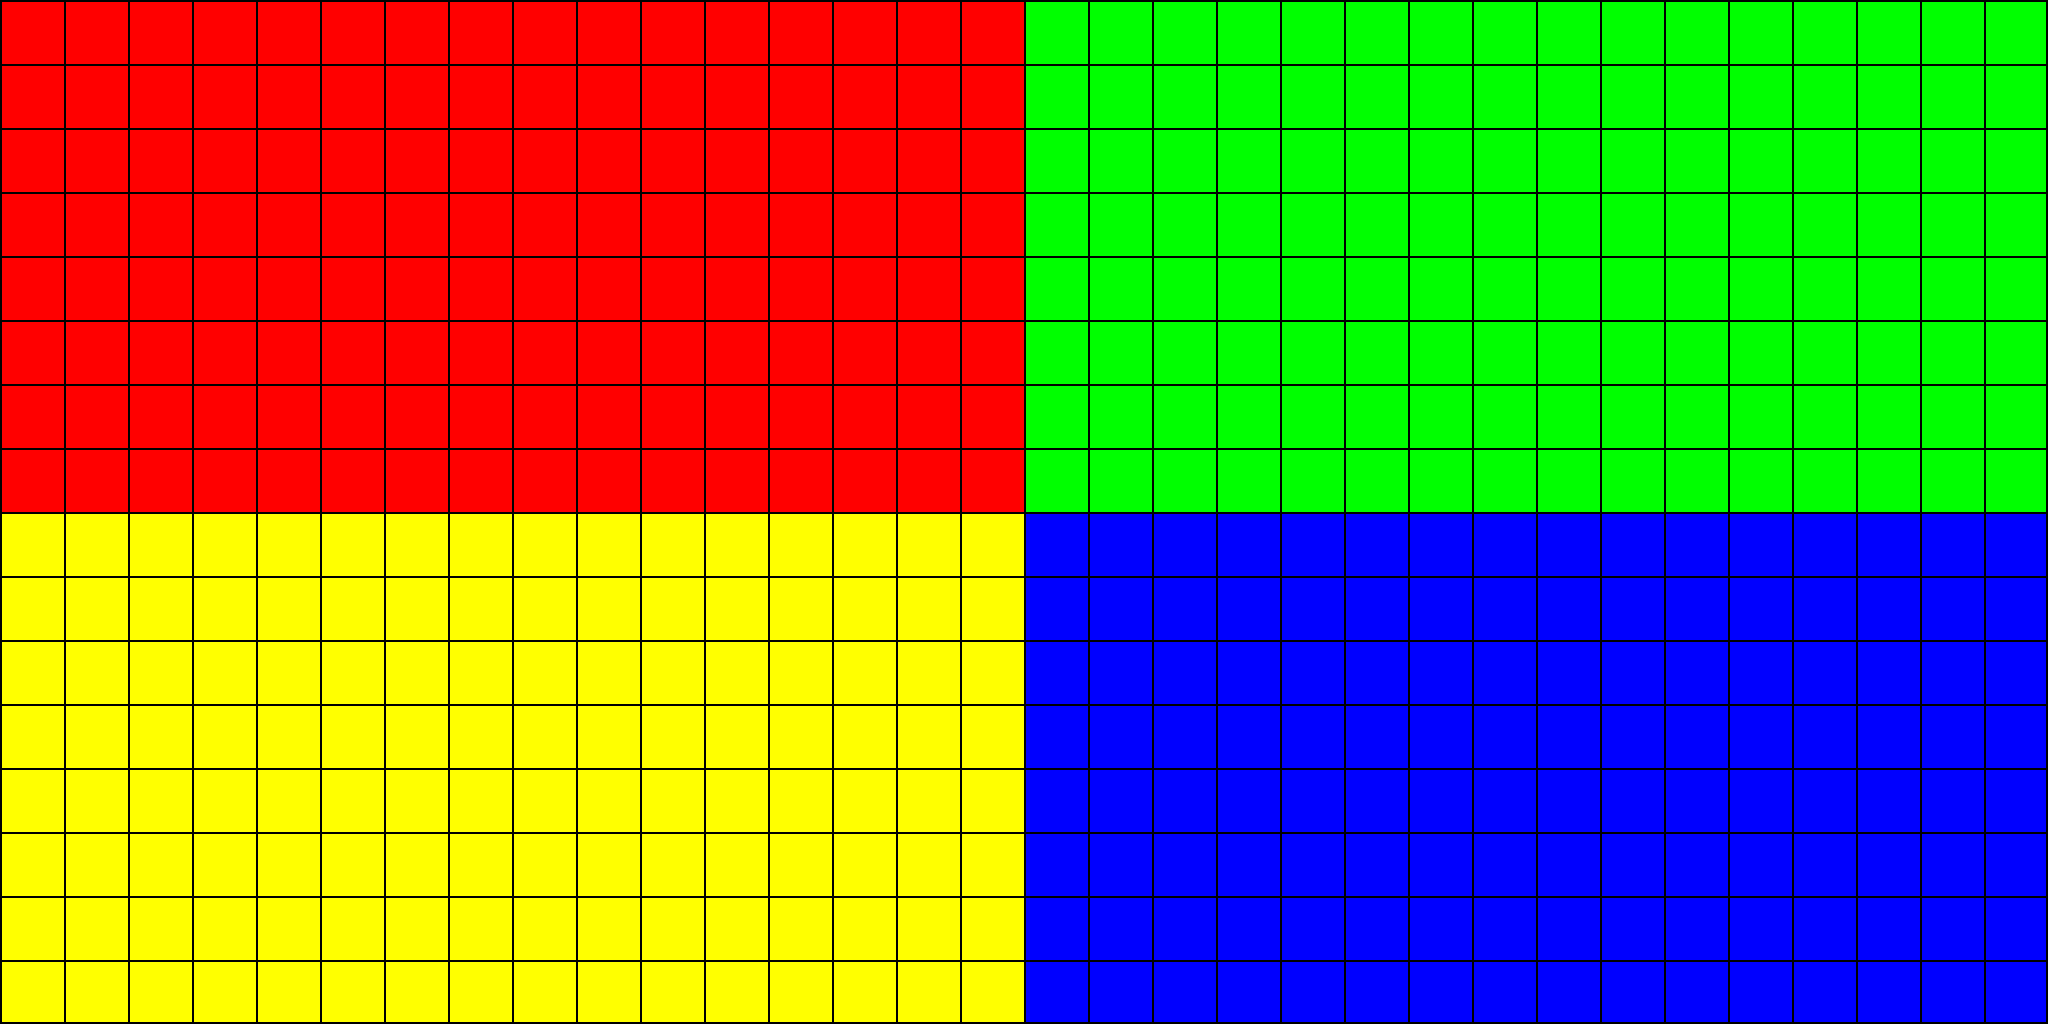
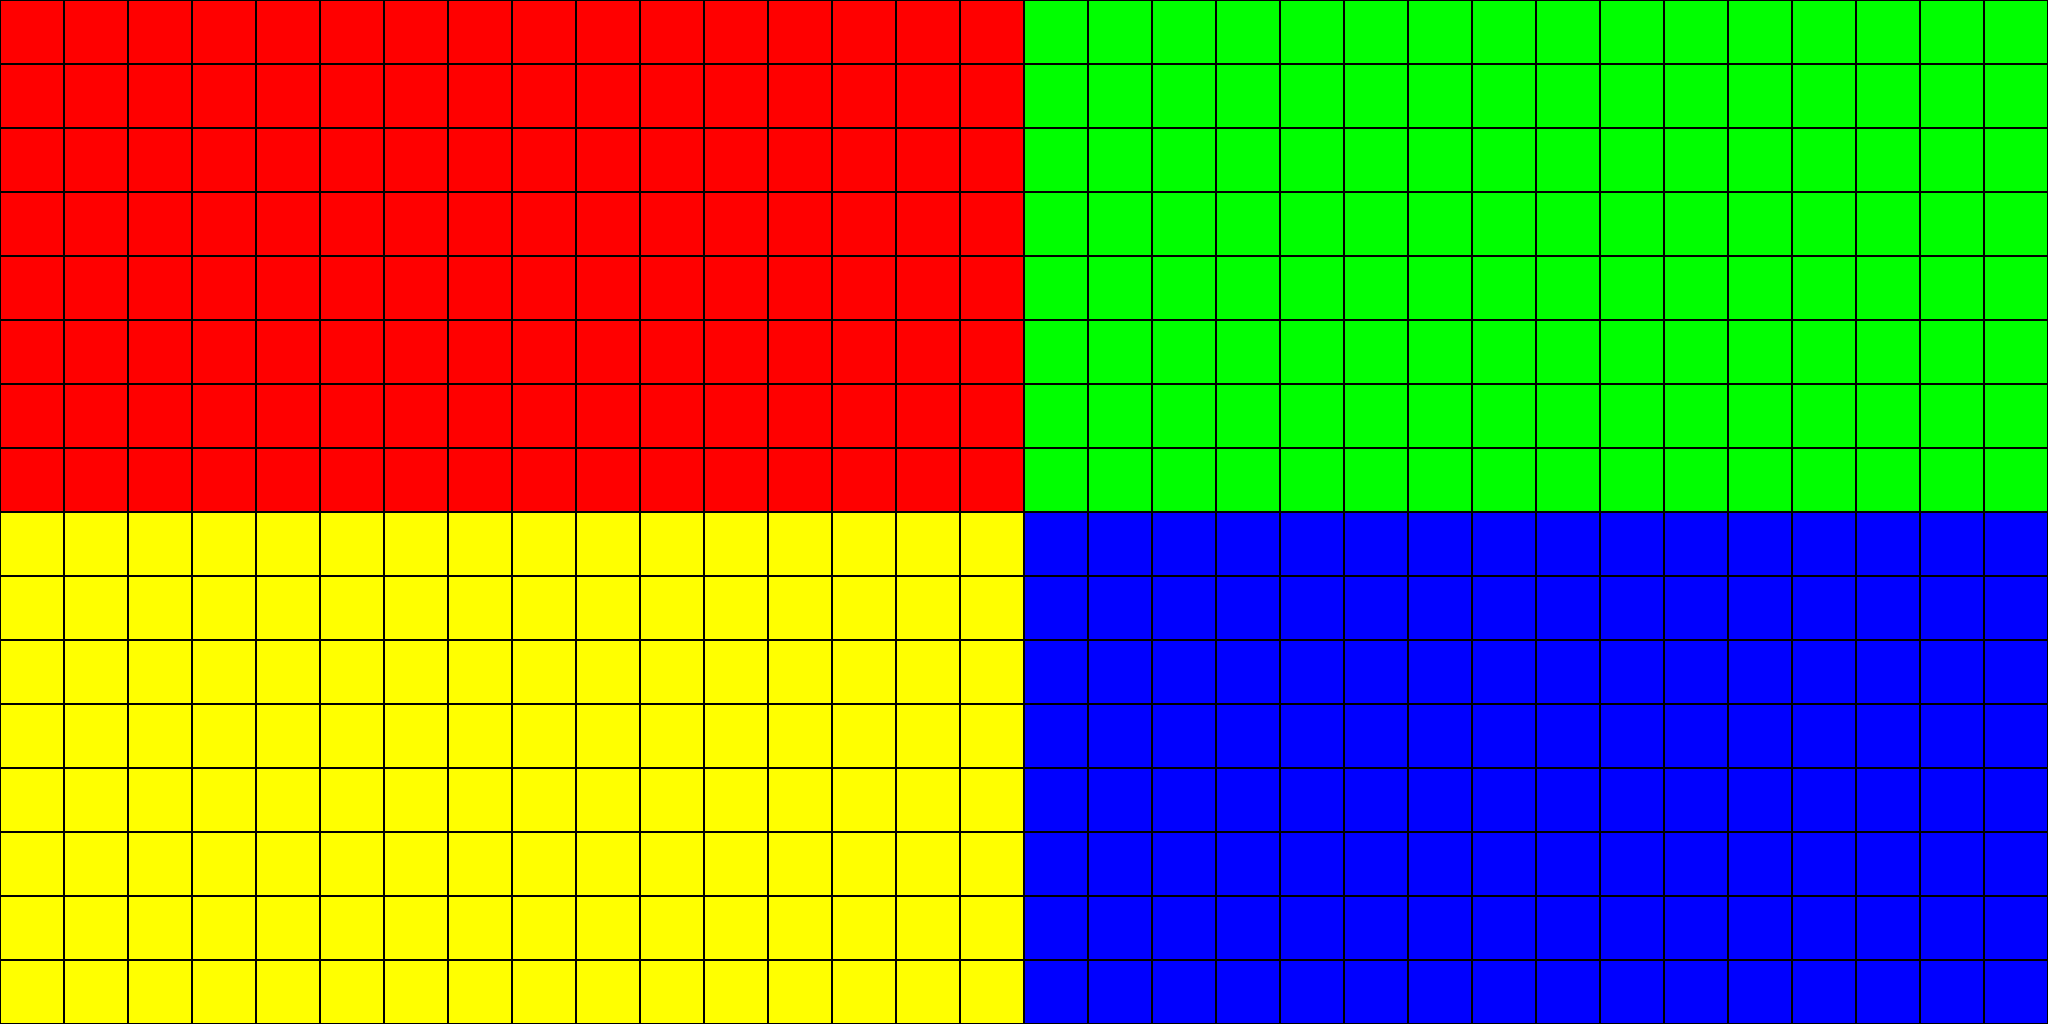
symetrie

diff --git a/Geodesics_around_BH/SphericalSymetry.py b/Geodesics_around_BH/SphericalSymetry.py
@@ -23,11 +23,13 @@ class Background:
 
     def get_angle_value(self, theta, phi):
         """Get angle value from the background image."""
-        return self.image.load()[self.image.size[0]-np.floor(phi / (2 * pi) * self.image.size[0])%self.image.size[0]-1, np.ceil(theta / pi * self.image.size[1])%self.image.size[1]]
+        return self.image.load()[
+            self.image.size[0] - np.floor(phi / (2 * pi) * self.image.size[0]) % self.image.size[0] - 1, np.ceil(
+                theta / pi * self.image.size[1]) % self.image.size[1]]
 
 
 class BlackHole:
-    def __init__(self, mass: float,accretionMin: float, accretionRange: float):
+    def __init__(self, mass: float, accretionMin: float, accretionRange: float):
         self._mass = mass
         self._accretionRange = accretionRange
         self._accretionMin = accretionMin
@@ -46,6 +48,7 @@ class BlackHole:
     def accretionMin(self):
         """Returns the radius of the accretion disk of the black hole."""
         return self._accretionMin
+
 
 class Camera:
     def __init__(self, r: float, theta: float, phi: float, distance: float, resolution: int, size: float):
@@ -97,13 +100,45 @@ class Ray:
         self._calculate_local_coordinates()
 
     def _calculate_local_coordinates(self):
-        """Calculate local coordinates once and store them as attributes."""                       #| 0.0025
-        self._localz = -self.camera.size * (self.pixely / self.camera.resolution - 1/2) - 1 / (2 * self.camera.resolution)#1p = 0.0025, 200p = 1
-        self._localy = self.camera.size * (self.pixelx / self.camera.resolution - 1/2) + 1 / (2 * self.camera.resolution)
+        """Calculate local coordinates once and store them as attributes."""
+        self._localz = -self.camera.size * (self.pixely / self.camera.resolution - 1 / 2) - 1 / (
+                    2 * self.camera.resolution)
+        self._localy = self.camera.size * (self.pixelx / self.camera.resolution - 1 / 2) + 1 / (
+                    2 * self.camera.resolution)
         self._localx = self.camera.distance
         self._localr = sqrt(self.localx ** 2 + self.localy ** 2 + self.localz ** 2)
         self._localtheta = np.arccos(self.localz / np.sqrt(self.localx ** 2 + self.localz ** 2))
         self._localphi = np.arctan(self.localy / self.localx) + pi
+        self._pt0, self._pr0, self._ptheta0, self._pphi0 = -1, -self.localx / (
+                1 - 2 * self.blackhole.mass / self.camera.r), -self.localz * self.camera.r / sqrt(
+            1 - 2 * self.blackhole.mass / self.camera.r), self.localy * self.camera.r * sin(self.camera.theta) / sqrt(
+            1 - 2 * self.blackhole.mass / self.camera.r)
+        self._b = self.ptheta0 ** 2 + self.pphi0 ** 2 / sin(self.camera.theta) ** 2
+
+    @property
+    def pt0(self):
+        """Returns the t momentum of the pixel"""
+        return self._pt0
+
+    @property
+    def pr0(self):
+        """Returns the r momentum of the pixel"""
+        return self._pr0
+
+    @property
+    def ptheta0(self):
+        """Returns the theta momentum of the pixel"""
+        return self._ptheta0
+
+    @property
+    def pphi0(self):
+        """Returns the phi momentum of the pixel"""
+        return self._pphi0
+
+    @property
+    def b(self):
+        """Returns the impact parameter of the pixel"""
+        return self._b
 
     @property
     def pixelx(self):
@@ -160,9 +195,6 @@ class Ray:
         """Returns the local phi angle"""
         return self._localphi
 
-    def _cart(self, r, theta, phi):
-        return r*cos(phi)*sin(theta), r*sin(phi)*sin(theta), r*cos(theta)
-
 
     def _dSdl(self, l, s, m):
         t, r, theta, phi, pt, pr, ptheta, pphi = s
@@ -177,35 +209,36 @@ class Ray:
                 cos(theta) / ((sin(theta) ** 3) * (r ** 2)) * pphi ** 2,
                 0]
 
-
     def _solver(self, t0, r0, theta0, phi0, pt0, pr0, ptheta0, pphi0, l_span, M):
         s_0 = (t0, r0, theta0, phi0, pt0, pr0, ptheta0, pphi0)
-        sol = solve(self._dSdl, l_span, s_0, method='DOP853', args=[M], events=_acretionDisk)
+        sol = solve(self._dSdl, l_span, s_0, method='DOP853', args=[M])
         return sol
 
     def get_color(self):
         """Returns the color of the pixel this ray passes through."""
-        pr0, ptheta0, pphi0 = -self.localx / (1 - 2 * self.blackhole.mass / self.camera.r), -self.localz * self.camera.r / sqrt(1 - 2 * self.blackhole.mass / self.camera.r), self.localy * self.camera.r * sin(self.camera.theta) / sqrt(1 - 2 * self.blackhole.mass / self.camera.r)
-        sol = self._solver(0, self.camera.r, self.camera.theta, self.camera.phi, -1, pr0, ptheta0, pphi0, (0, 200),self.blackhole.mass)
-        if len(sol.y_events[0]) > 0:
-            if sol.y_events[0][0][1] < self.blackhole.accretionRange:
-                if sol.y_events[0][0][1] > self.blackhole.accretionMin:
-                    return 255, 255, 255
-        if ptheta0**2 + pphi0**2/sin(self.camera.theta)**2  <= 27 * self.blackhole.mass**2:
+        sol = self._solver(0, self.camera.r, self.camera.theta, self.camera.phi, self.pt0, self.pr0, self.ptheta0, self.pphi0, (0, 200),
+                           self.blackhole.mass)
+        if self.b <= 27 * self.blackhole.mass ** 2:
             return 0, 0, 0
         return self.background.get_angle_value(sol.y[2][-1], (sol.y[3][-1]))
 
     def get_plot_data(self):
         """Returns data for plotting the ray path."""
         pr0, ptheta0, pphi0 = -self.localx / (
-                    1 - 2 * self.blackhole.mass / self.camera.r), -self.localz * self.camera.r / sqrt(
+                1 - 2 * self.blackhole.mass / self.camera.r), -self.localz * self.camera.r / sqrt(
             1 - 2 * self.blackhole.mass / self.camera.r), self.localy * self.camera.r * sin(self.camera.theta) / sqrt(
             1 - 2 * self.blackhole.mass / self.camera.r)
-        sol = self._solver(0, self.camera.r, self.camera.theta, self.camera.phi, -1, pr0, ptheta0, pphi0, (0, 200), self.blackhole.mass)
+        sol = self._solver(0, self.camera.r, self.camera.theta, self.camera.phi, -1, pr0, ptheta0, pphi0, (0, 200),
+                           self.blackhole.mass)
         return sol
 
-def _acretionDisk(t, y, M):
-    return y[2]%np.pi - np.pi/2
+def cart(sol):
+    t, r, theta, phi = sol[0], sol[1], sol[2], sol[3]
+    return np.array([t, r * cos(phi) * sin(theta), r * sin(phi) * sin(theta), r * cos(theta)])
+
+def spheri(sol):
+    t, x, y, z = sol[0], sol[1], sol[2], sol[3]
+    return np.array([t, sqrt(x ** 2 + y ** 2 + z ** 2), np.arccos(z / np.sqrt(x ** 2 + z ** 2)), np.arctan(y / x) + pi])
 
 def get_color_pixel(args):
     """Get color of the pixel using ray tracing."""
@@ -215,36 +248,68 @@ def get_color_pixel(args):
 
 
 def mainPicture():
-
+    absBegin = time()
+    resolution = 401
     black_hole = BlackHole(1, 4, 6)
-    camera = Camera(30, pi / 2 - 0.3, 0, 1, 401, 1)
+    camera = Camera(30, pi / 2, 0, 1, resolution, 1)
     result = Image.new('RGB', (camera.resolution, camera.resolution))
     pixels = result.load()
-    background = Background(Image.open("InterstellarWormhole_Fig10.jpg"))
-    rays = {}
+    background = Background(Image.open("colorgridCorrect.png"))
+
+
+
     begin = time()
-    for x in range(camera.resolution):
-        for y in range(camera.resolution):
-            rays[(x, y)] = Ray(x, y, camera, background, black_hole)
-    print("Creating rays: " + str(time() - begin))
+    rays = {}
+    for y in range(resolution):
+        for z in range(resolution):
+            rays[(y, z)] = Ray(y, z, camera, background, black_hole)
+    print("Creating rays done: " + str(time() - begin))
 
 
-    start = time()
-    pixel_values = []
-    with Pool(os.cpu_count()-1) as pool:
-        for pixel in pool.map(get_color_pixel, [(x, rays, camera.resolution) for x in range(camera.resolution**2)]):
-            pixel_values.append(pixel)
-            
-    pool.close()
-    '''for x in range(camera.resolution):
-        for y in range(camera.resolution):
-            pixel_values.append(rays[(x,y)].get_color())'''
-
-    for i in range(len(pixel_values)):
-        pixels[(i // camera.resolution, i % camera.resolution)]=pixel_values[i]
+    begin = time()
+    sols = {}
+    for x in range(int(np.ceil(resolution/2))):
+        sols[(x, x)] = np.array(rays[(x,x)].get_plot_data().y[:4])
+    print("Calculating diagonal done: " + str(time() - begin))
 
 
-    print("Calculating paths with "+ str(os.cpu_count()-1) + " cores: " + str(time() - start))
+    begin = time()
+    scaling = {}
+    for x in range(int(np.ceil(resolution/2))):
+        ray = rays[(x,x)]
+        sol = sols[(x,x)]
+        r0 = np.sign(ray.localy)*sqrt(ray.localz**2+ray.localy**2)
+        cars = cart(sol)
+        scaling[x] = (np.sign(cars[2])*sqrt(cars[3]**2+cars[2]**2))/r0
+    print("Calculating scaling factors done: " + str(time() - begin))
+
+    begin = time()
+    for y in range(resolution):
+        for z in range(resolution):
+            if y != z or y+z>resolution:
+                localx, localy, localz = rays[(y,z)].localx, rays[(y,z)].localy, rays[(y,z)].localz
+                x = np.floor(resolution/2) - np.round(np.sqrt(((y-np.floor(resolution/2))**2 + (z-np.floor(resolution/2))**2)/2))
+                t, r, theta, phi = sols[(x, x)][0], sols[(x, x)][1], sols[(x, x)][2], sols[(x, x)][3]
+                scaledlocaly, scaledlocalz, scaledlocalx = scaling[x] * localy, scaling[x] * localz, r * cos(phi) * sin(theta)
+                sols[(y, z)] = spheri(np.array([t, scaledlocalx, scaledlocaly, scaledlocalz]))
+    print("Calculating other paths done: " + str(time() - begin))
+
+
+    begin = time()
+    for x in range(resolution):
+        for y in range(resolution):
+            if rays[(x,y)].b <= 27 * black_hole.mass ** 2:
+                pixels[x, y] = 0,0,0
+            else:
+                pixels[x,y] = background.get_angle_value(sols[(x,y)][2][-1], sols[(x,y)][3][-1])
+    print("Coloring the image done " + str(time() - begin))
+    print("Total processing time: " + str(time() - absBegin))
+    print(sols[(146, 147)])
+    print(sols[(145, 146)])
+    print(sols[(147, 145)])
+    print(sols[(146, 146)])
+    print(background.get_angle_value(sols[(149,148)][2][-1], sols[(149,148)][3][-1]))
+    print(background.get_angle_value(sols[(149, 149)][2][-1], sols[(149, 149)][3][-1]))
     result.show()
 
     '''fig = plt.figure()
@@ -259,6 +324,7 @@ def mainPicture():
     ax.set_xlim([-10, 10])
     ax.set_zlim([-10, 10])
     plt.show()'''
+
 
 def mainPlot():
     black_hole = BlackHole(1, 1)
@@ -275,7 +341,7 @@ def mainPlot():
     ax = fig.add_subplot(projection='3d')
     for i in range(camera.resolution):
         for j in range(camera.resolution):
-            sol = rays[(i,j)].get_plot_data().y
+            sol = rays[(i, j)].get_plot_data().y
             R, T, P = sol[1], sol[2], sol[3]
             X = R * np.sin(T) * np.cos(P)
             Y = R * np.sin(T) * np.sin(P)

diff --git a/Geodesics_around_BH/fix.py b/Geodesics_around_BH/fix.py
@@ -11,21 +11,24 @@ for x in range(1024):
         pixels[x, y+512] = (255, 255, 0)
 
 
-'''for x in range(2048):
-    if x % 64 == 0:
+for x in range(2048):
+    if x % 64 == 0 and x != 0:
         for y in range(1024):
-            pixels[x+1, y] = (0, 0, 0)
+            pixels[x-1, y] = (0, 0, 0)
             pixels[x, y] = (0, 0, 0)
+
 for y in range(1024):
-    if y % 64 == 0:
+    if y % 64 == 0 and y != 0:
         for x in range(2048):
-            pixels[x, y+1] = (0, 0, 0)
+            pixels[x, y-1] = (0, 0, 0)
             pixels[x, y] = (0, 0, 0)
+
 for y in range(1024):
     pixels[2047, y] = (0, 0, 0)
-    pixels[2046, y] = (0, 0, 0)
+    pixels[0, y] = (0, 0, 0)
 
 for x in range(2048):
     pixels[x, 1023] = (0, 0, 0)
-    pixels[x, 1022] = (0, 0, 0)'''
-image.save("colorCorrect.png")
+    pixels[x, 0] = (0, 0, 0)
+
+image.save("colorgridCorrect.png")
